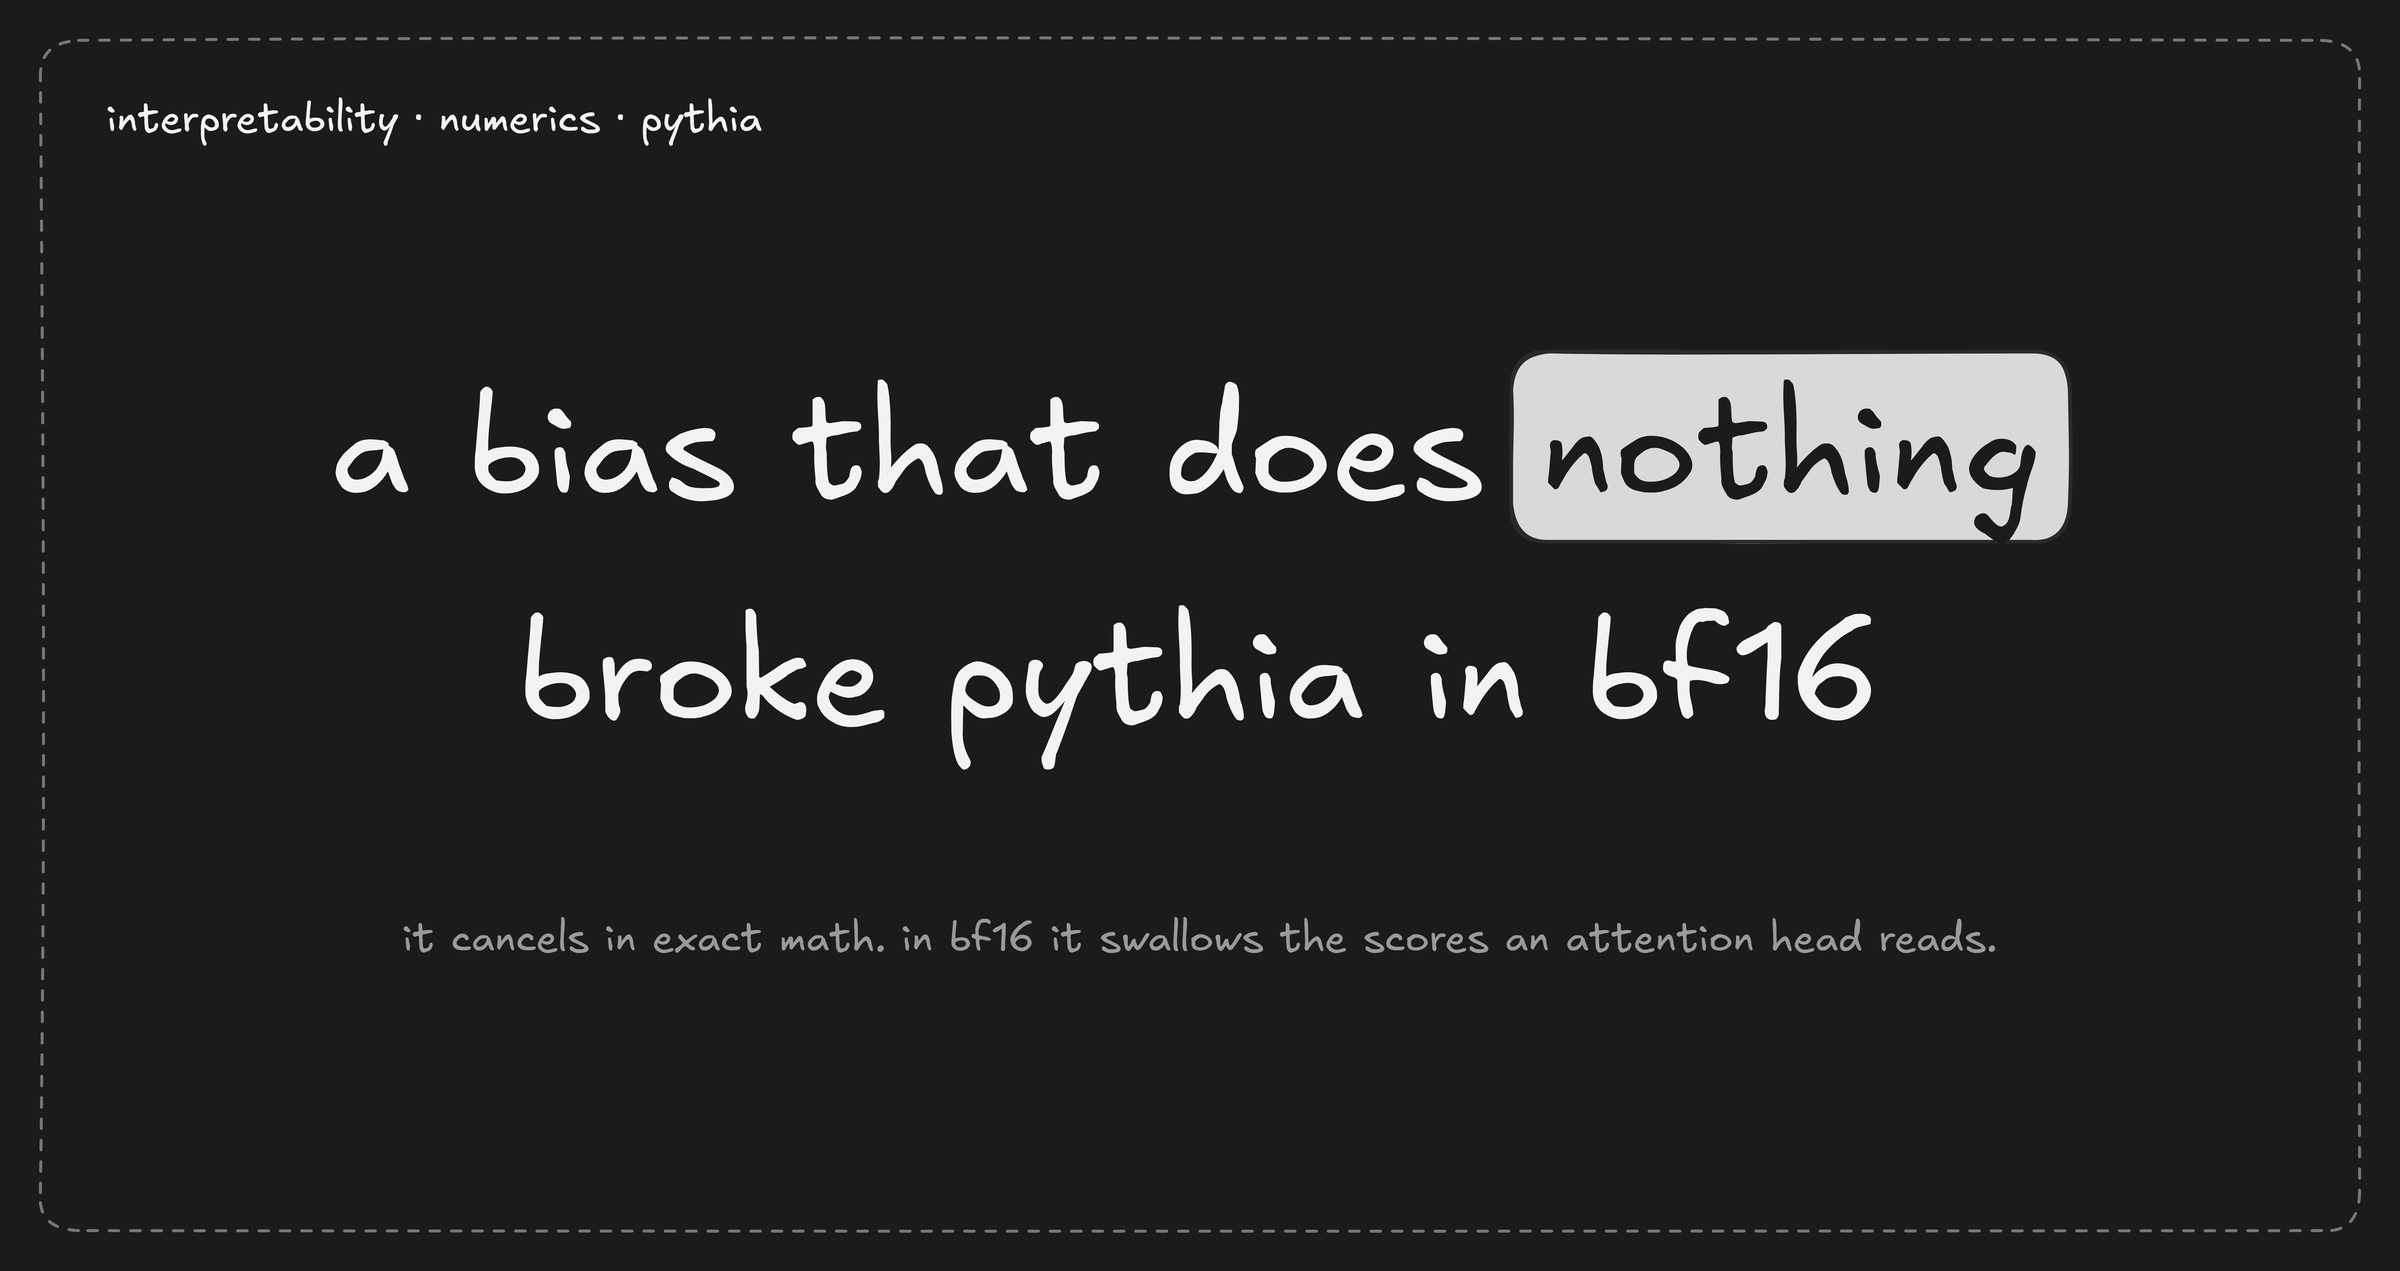
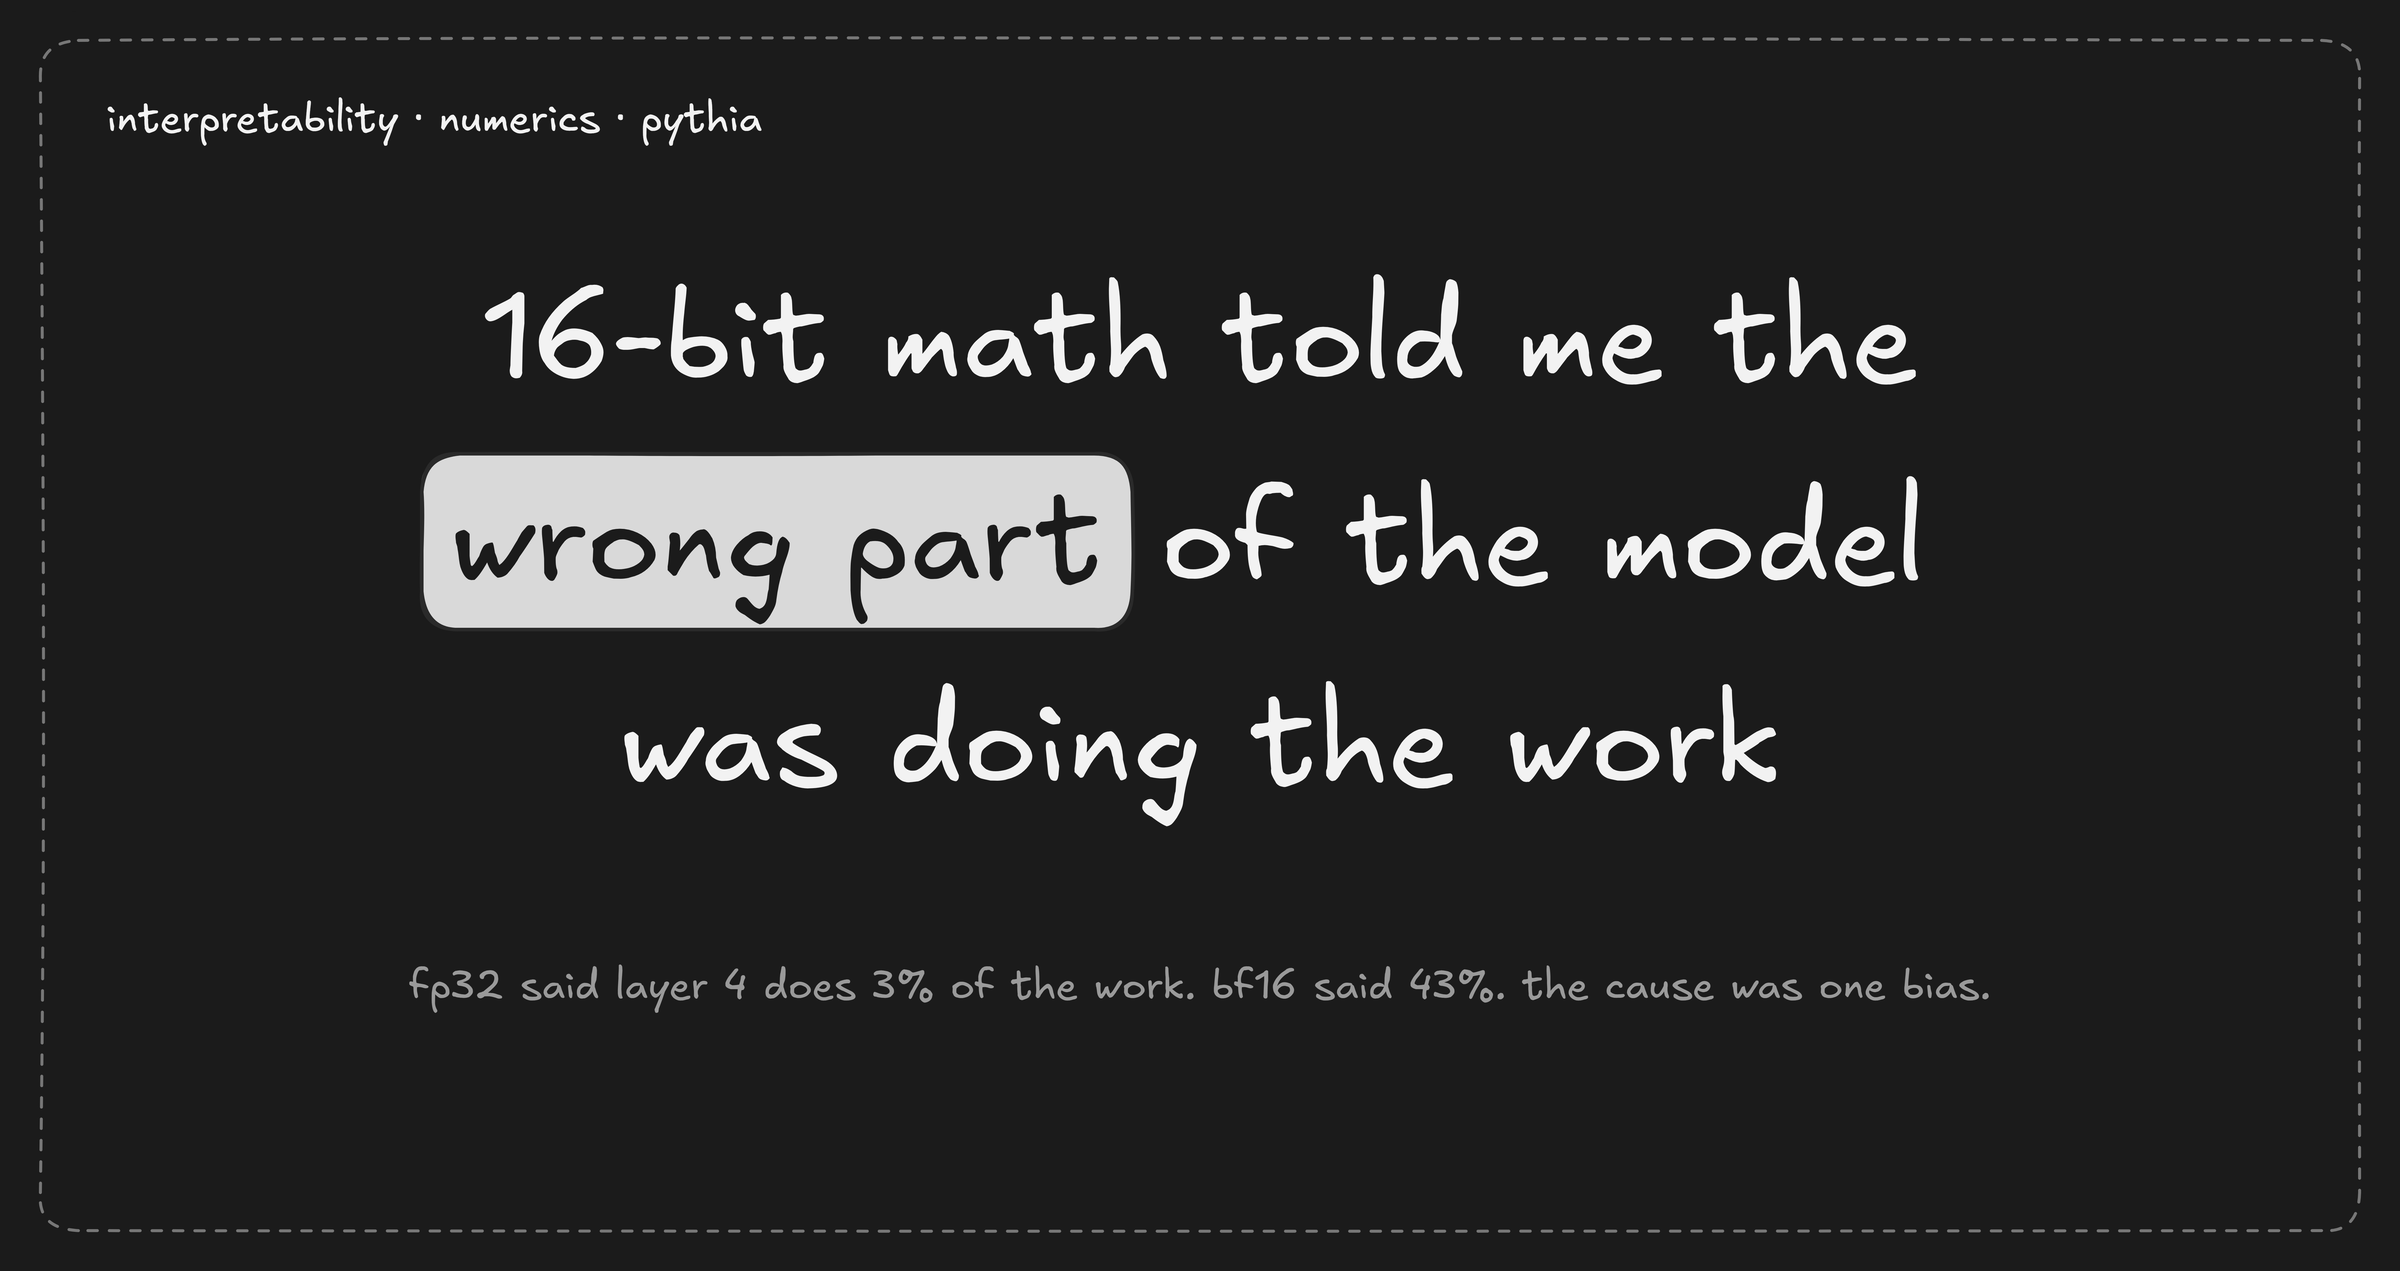
kerneltrace post: a title a beginner can read, and the setup explained in the opening

Changed region(s): [[0.125, 0.2148, 0.875, 0.6444], [0.1562, 0.7057, 0.8438, 0.7978]]

diff --git a/content/posts/kerneltrace-bf16.md b/content/posts/kerneltrace-bf16.md
@@ -1,11 +1,11 @@
 ---
-title: a bias that does nothing broke pythia in bf16
+title: 16-bit math told me the wrong part of the model was doing the work
 date: 2026-11-11
-description: activation patching on pythia-160m in bf16 said mlp layer 4 brings back 43% of the answer. fp32 said 3%. the cause was a key bias that cancels inside softmax. fp16 training and adam grew it to 279 anyway. it's also why pythia's interaction patching is ten times noisier than gpt-2's.
+description: i asked which layer of a small language model carries the answer. with normal 32-bit numbers the tool said layer 4 does 3% of the work, and with 16-bit numbers it said 43%. the cause was one bias that shouldn't do anything, and training grew it anyway.
 tags: Interpretability, Numerics, Attention, Pythia
 cover: /assets/img/kerneltrace-cover.png
 ---
-i ran the same activation patching sweep on pythia-160m twice, once in fp32 and once in bf16. same weights, same 48 prompts. fp32 said mlp layer 4 brings back 3% of the answer. bf16 said 43%.
+i wanted to know which part of a small language model, pythia-160m, works out who gets the drink in a sentence like "when mary and john went to the store, john gave a drink to". the usual way to check is activation patching. you copy one layer's output from a run that gets the answer right into a run that gets it wrong, and see how much of the right answer comes back. i ran it twice, once with normal 32-bit numbers (fp32) and once with the 16-bit numbers (bf16) people use to save memory, on the same weights and the same 48 prompts. fp32 said mlp layer 4 brings back 3% of the answer. bf16 said 43%.
 
 on 25 of the 48 prompts bf16 saw no effect at all. the clean run and the corrupted run came out with the same logit diff, and a patch can't bring back a difference that isn't there.
 
